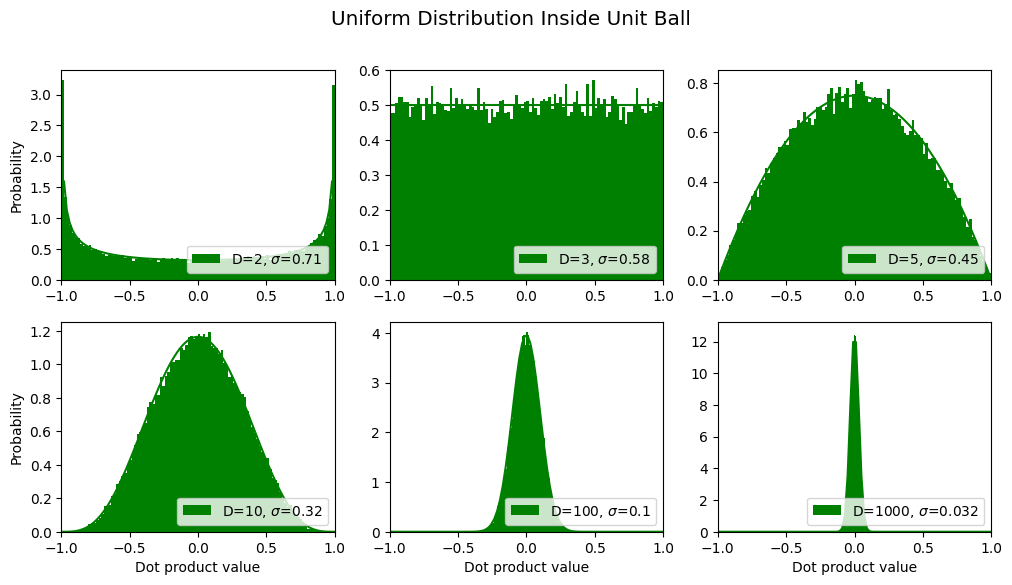
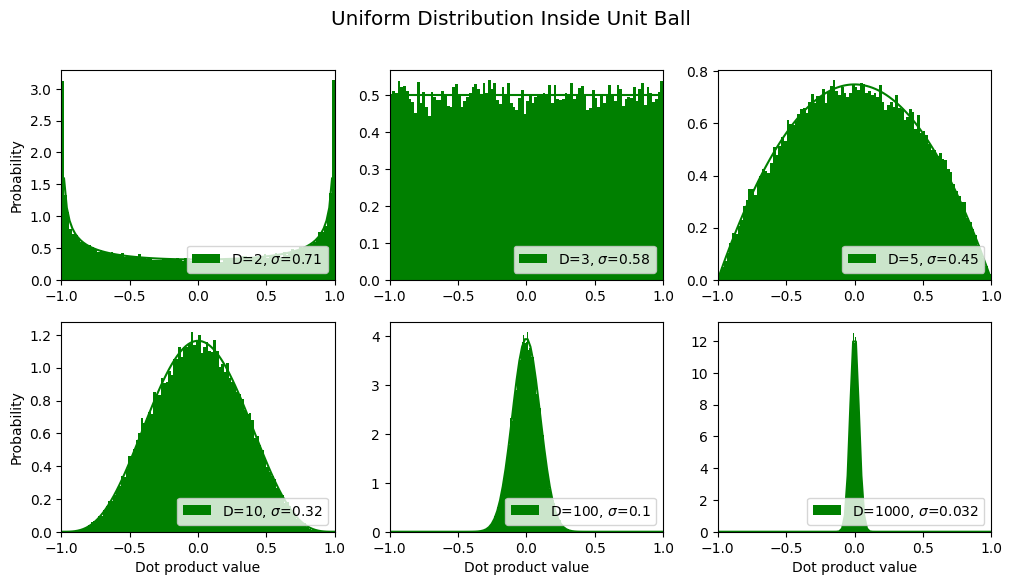
Built site for gh-pages

diff --git a/posts/2022-01-24-multidim-dotproducts.html b/posts/2022-01-24-multidim-dotproducts.html
@@ -321,48 +321,39 @@ window.Quarto = {
 <span id="cb3-10"><a href="#cb3-10" aria-hidden="true" tabindex="-1"></a>    <span class="co">"random number on [-1..1]"</span></span>
 <span id="cb3-11"><a href="#cb3-11" aria-hidden="true" tabindex="-1"></a>    <span class="cf">return</span> np.random.uniform(low<span class="op">=-</span><span class="fl">1.0</span>, high<span class="op">=</span><span class="fl">1.0</span>, size<span class="op">=</span>size)</span>
 <span id="cb3-12"><a href="#cb3-12" aria-hidden="true" tabindex="-1"></a></span>
-<span id="cb3-13"><a href="#cb3-13" aria-hidden="true" tabindex="-1"></a></span>
-<span id="cb3-14"><a href="#cb3-14" aria-hidden="true" tabindex="-1"></a><span class="kw">def</span> sample_ball(size<span class="op">=</span>(<span class="dv">1</span>, <span class="dv">1</span>)):</span>
-<span id="cb3-15"><a href="#cb3-15" aria-hidden="true" tabindex="-1"></a>    n, dim <span class="op">=</span> size</span>
-<span id="cb3-16"><a href="#cb3-16" aria-hidden="true" tabindex="-1"></a>    <span class="co">"sample random points inside an n-dimensional ball"</span></span>
-<span id="cb3-17"><a href="#cb3-17" aria-hidden="true" tabindex="-1"></a>    v <span class="op">=</span> np.random.normal(size<span class="op">=</span>(n, dim))</span>
-<span id="cb3-18"><a href="#cb3-18" aria-hidden="true" tabindex="-1"></a>    v <span class="op">/=</span> np.linalg.norm(v, axis<span class="op">=</span><span class="dv">1</span>, keepdims<span class="op">=</span><span class="va">True</span>)  <span class="co"># uniform direction</span></span>
-<span id="cb3-19"><a href="#cb3-19" aria-hidden="true" tabindex="-1"></a>    r <span class="op">=</span> np.random.uniform(size<span class="op">=</span>(n, <span class="dv">1</span>)) <span class="op">**</span> (<span class="dv">1</span><span class="op">/</span>dim)  <span class="co"># radius, ~u^(1/D)</span></span>
-<span id="cb3-20"><a href="#cb3-20" aria-hidden="true" tabindex="-1"></a>    <span class="cf">return</span> v <span class="op">*</span> r</span>
-<span id="cb3-21"><a href="#cb3-21" aria-hidden="true" tabindex="-1"></a></span>
-<span id="cb3-22"><a href="#cb3-22" aria-hidden="true" tabindex="-1"></a><span class="kw">def</span> softmax(x):</span>
-<span id="cb3-23"><a href="#cb3-23" aria-hidden="true" tabindex="-1"></a>    <span class="co">"good ol' softmax function, for a bunch of row vectors"</span></span>
-<span id="cb3-24"><a href="#cb3-24" aria-hidden="true" tabindex="-1"></a>    xT <span class="op">=</span> x.T  <span class="co"># .T's are just to make broadcasting work out.</span></span>
-<span id="cb3-25"><a href="#cb3-25" aria-hidden="true" tabindex="-1"></a>    vec_max <span class="op">=</span> np.<span class="bu">max</span>(xT,axis<span class="op">=</span><span class="dv">0</span>)</span>
-<span id="cb3-26"><a href="#cb3-26" aria-hidden="true" tabindex="-1"></a>    e_x <span class="op">=</span> np.exp(xT <span class="op">-</span> vec_max)   </span>
-<span id="cb3-27"><a href="#cb3-27" aria-hidden="true" tabindex="-1"></a>    <span class="cf">return</span> (e_x <span class="op">/</span> e_x.<span class="bu">sum</span>(axis<span class="op">=</span><span class="dv">0</span>)).T</span>
-<span id="cb3-28"><a href="#cb3-28" aria-hidden="true" tabindex="-1"></a></span>
-<span id="cb3-29"><a href="#cb3-29" aria-hidden="true" tabindex="-1"></a></span>
-<span id="cb3-30"><a href="#cb3-30" aria-hidden="true" tabindex="-1"></a><span class="kw">def</span> make_plot(n<span class="op">=</span>n, dims<span class="op">=</span>dims, title<span class="op">=</span><span class="st">''</span>, rand_func<span class="op">=</span>uniform_rand, normalize<span class="op">=</span><span class="va">False</span>,</span>
-<span id="cb3-31"><a href="#cb3-31" aria-hidden="true" tabindex="-1"></a>             color<span class="op">=</span><span class="st">'#1f77b4'</span>, xlim<span class="op">=</span><span class="va">None</span>, softmax_them<span class="op">=</span><span class="va">False</span>, scale_x_by_sqrtd<span class="op">=</span><span class="va">False</span>):</span>
-<span id="cb3-32"><a href="#cb3-32" aria-hidden="true" tabindex="-1"></a>    <span class="co">"""A function we'll call again &amp; again to make plots with"""</span></span>
-<span id="cb3-33"><a href="#cb3-33" aria-hidden="true" tabindex="-1"></a>    fig, axes <span class="op">=</span> plt.subplots(<span class="dv">2</span>,<span class="dv">3</span>, figsize<span class="op">=</span>(<span class="dv">12</span>,<span class="dv">6</span>))</span>
-<span id="cb3-34"><a href="#cb3-34" aria-hidden="true" tabindex="-1"></a>    fig.suptitle(title, fontsize<span class="op">=</span><span class="st">"x-large"</span>)</span>
-<span id="cb3-35"><a href="#cb3-35" aria-hidden="true" tabindex="-1"></a>    axes <span class="op">=</span> axes.ravel()</span>
-<span id="cb3-36"><a href="#cb3-36" aria-hidden="true" tabindex="-1"></a>    sds <span class="op">=</span> []                      <span class="co"># list of standard devations for different dims</span></span>
-<span id="cb3-37"><a href="#cb3-37" aria-hidden="true" tabindex="-1"></a>    <span class="cf">for</span> i,ax <span class="kw">in</span> <span class="bu">enumerate</span>(axes):</span>
-<span id="cb3-38"><a href="#cb3-38" aria-hidden="true" tabindex="-1"></a>        dim <span class="op">=</span> dims[i]</span>
-<span id="cb3-39"><a href="#cb3-39" aria-hidden="true" tabindex="-1"></a>        a <span class="op">=</span> rand_func(size<span class="op">=</span>(n,dim))</span>
-<span id="cb3-40"><a href="#cb3-40" aria-hidden="true" tabindex="-1"></a>        b <span class="op">=</span> rand_func(size<span class="op">=</span>(n,dim))</span>
-<span id="cb3-41"><a href="#cb3-41" aria-hidden="true" tabindex="-1"></a>        <span class="cf">if</span> softmax_them: a, b <span class="op">=</span> softmax(a), softmax(b)</span>
-<span id="cb3-42"><a href="#cb3-42" aria-hidden="true" tabindex="-1"></a>        <span class="cf">if</span> normalize: a, b <span class="op">=</span> norm_rows(a), norm_rows(b)</span>
-<span id="cb3-43"><a href="#cb3-43" aria-hidden="true" tabindex="-1"></a>        dots <span class="op">=</span> (a<span class="op">*</span>b).<span class="bu">sum</span>(axis<span class="op">=-</span><span class="dv">1</span>)</span>
-<span id="cb3-44"><a href="#cb3-44" aria-hidden="true" tabindex="-1"></a>        <span class="cf">if</span> scale_x_by_sqrtd: dots <span class="op">/=</span> np.sqrt(dim)</span>
-<span id="cb3-45"><a href="#cb3-45" aria-hidden="true" tabindex="-1"></a>        std <span class="op">=</span> np.std(dots,axis<span class="op">=</span><span class="dv">0</span>)   <span class="co"># measure standard dev of distribution of dot product</span></span>
-<span id="cb3-46"><a href="#cb3-46" aria-hidden="true" tabindex="-1"></a>        ax.hist(dots, density<span class="op">=</span><span class="va">True</span>, bins<span class="op">=</span><span class="dv">100</span>, label<span class="op">=</span><span class="ss">f'D=</span><span class="sc">{</span>dim<span class="sc">}</span><span class="ss">, $</span><span class="er">\</span><span class="ss">sigma$=</span><span class="sc">{</span>std<span class="sc">:3.2g}</span><span class="ss">'</span>, color<span class="op">=</span>color)  </span>
-<span id="cb3-47"><a href="#cb3-47" aria-hidden="true" tabindex="-1"></a>        sds.append(std)</span>
-<span id="cb3-48"><a href="#cb3-48" aria-hidden="true" tabindex="-1"></a>        <span class="cf">if</span> xlim<span class="op">!=</span><span class="va">None</span>: ax.set_xlim(xlim)</span>
-<span id="cb3-49"><a href="#cb3-49" aria-hidden="true" tabindex="-1"></a>        ax.legend(loc<span class="op">=</span><span class="dv">4</span>)   <span class="co"># legend will show dimensions and std dev</span></span>
-<span id="cb3-50"><a href="#cb3-50" aria-hidden="true" tabindex="-1"></a>        <span class="cf">if</span> i<span class="op">%</span><span class="dv">3</span><span class="op">==</span><span class="dv">0</span>: ax.set_ylabel(<span class="st">'Probability'</span>)</span>
-<span id="cb3-51"><a href="#cb3-51" aria-hidden="true" tabindex="-1"></a>        <span class="cf">if</span> i<span class="op">&gt;</span><span class="dv">2</span>: ax.set_xlabel(<span class="st">'Dot product value'</span>)</span>
-<span id="cb3-52"><a href="#cb3-52" aria-hidden="true" tabindex="-1"></a>    plt.rcParams[<span class="st">'figure.facecolor'</span>] <span class="op">=</span> <span class="st">'white'</span></span>
-<span id="cb3-53"><a href="#cb3-53" aria-hidden="true" tabindex="-1"></a>    plt.rcParams[<span class="st">'axes.facecolor'</span>] <span class="op">=</span> <span class="st">'white'</span></span>
-<span id="cb3-54"><a href="#cb3-54" aria-hidden="true" tabindex="-1"></a>    <span class="cf">return</span> sds, axes, fig   <span class="co"># return some axes &amp; figure info too in case we want to replot</span></span></code></pre></div><button title="Copy to Clipboard" class="code-copy-button"><i class="bi"></i></button></div>
+<span id="cb3-13"><a href="#cb3-13" aria-hidden="true" tabindex="-1"></a><span class="kw">def</span> softmax(x):</span>
+<span id="cb3-14"><a href="#cb3-14" aria-hidden="true" tabindex="-1"></a>    <span class="co">"good ol' softmax function, for a bunch of row vectors"</span></span>
+<span id="cb3-15"><a href="#cb3-15" aria-hidden="true" tabindex="-1"></a>    xT <span class="op">=</span> x.T  <span class="co"># .T's are just to make broadcasting work out.</span></span>
+<span id="cb3-16"><a href="#cb3-16" aria-hidden="true" tabindex="-1"></a>    vec_max <span class="op">=</span> np.<span class="bu">max</span>(xT,axis<span class="op">=</span><span class="dv">0</span>)</span>
+<span id="cb3-17"><a href="#cb3-17" aria-hidden="true" tabindex="-1"></a>    e_x <span class="op">=</span> np.exp(xT <span class="op">-</span> vec_max)   </span>
+<span id="cb3-18"><a href="#cb3-18" aria-hidden="true" tabindex="-1"></a>    <span class="cf">return</span> (e_x <span class="op">/</span> e_x.<span class="bu">sum</span>(axis<span class="op">=</span><span class="dv">0</span>)).T</span>
+<span id="cb3-19"><a href="#cb3-19" aria-hidden="true" tabindex="-1"></a></span>
+<span id="cb3-20"><a href="#cb3-20" aria-hidden="true" tabindex="-1"></a></span>
+<span id="cb3-21"><a href="#cb3-21" aria-hidden="true" tabindex="-1"></a><span class="kw">def</span> make_plot(n<span class="op">=</span>n, dims<span class="op">=</span>dims, title<span class="op">=</span><span class="st">''</span>, rand_func<span class="op">=</span>uniform_rand, normalize<span class="op">=</span><span class="va">False</span>,</span>
+<span id="cb3-22"><a href="#cb3-22" aria-hidden="true" tabindex="-1"></a>             color<span class="op">=</span><span class="st">'#1f77b4'</span>, xlim<span class="op">=</span><span class="va">None</span>, softmax_them<span class="op">=</span><span class="va">False</span>, scale_x_by_sqrtd<span class="op">=</span><span class="va">False</span>):</span>
+<span id="cb3-23"><a href="#cb3-23" aria-hidden="true" tabindex="-1"></a>    <span class="co">"""A function we'll call again &amp; again to make plots with"""</span></span>
+<span id="cb3-24"><a href="#cb3-24" aria-hidden="true" tabindex="-1"></a>    fig, axes <span class="op">=</span> plt.subplots(<span class="dv">2</span>,<span class="dv">3</span>, figsize<span class="op">=</span>(<span class="dv">12</span>,<span class="dv">6</span>))</span>
+<span id="cb3-25"><a href="#cb3-25" aria-hidden="true" tabindex="-1"></a>    fig.suptitle(title, fontsize<span class="op">=</span><span class="st">"x-large"</span>)</span>
+<span id="cb3-26"><a href="#cb3-26" aria-hidden="true" tabindex="-1"></a>    axes <span class="op">=</span> axes.ravel()</span>
+<span id="cb3-27"><a href="#cb3-27" aria-hidden="true" tabindex="-1"></a>    sds <span class="op">=</span> []                      <span class="co"># list of standard devations for different dims</span></span>
+<span id="cb3-28"><a href="#cb3-28" aria-hidden="true" tabindex="-1"></a>    <span class="cf">for</span> i,ax <span class="kw">in</span> <span class="bu">enumerate</span>(axes):</span>
+<span id="cb3-29"><a href="#cb3-29" aria-hidden="true" tabindex="-1"></a>        dim <span class="op">=</span> dims[i]</span>
+<span id="cb3-30"><a href="#cb3-30" aria-hidden="true" tabindex="-1"></a>        a <span class="op">=</span> rand_func(size<span class="op">=</span>(n,dim))</span>
+<span id="cb3-31"><a href="#cb3-31" aria-hidden="true" tabindex="-1"></a>        b <span class="op">=</span> rand_func(size<span class="op">=</span>(n,dim))</span>
+<span id="cb3-32"><a href="#cb3-32" aria-hidden="true" tabindex="-1"></a>        <span class="cf">if</span> softmax_them: a, b <span class="op">=</span> softmax(a), softmax(b)</span>
+<span id="cb3-33"><a href="#cb3-33" aria-hidden="true" tabindex="-1"></a>        <span class="cf">if</span> normalize: a, b <span class="op">=</span> norm_rows(a), norm_rows(b)</span>
+<span id="cb3-34"><a href="#cb3-34" aria-hidden="true" tabindex="-1"></a>        dots <span class="op">=</span> (a<span class="op">*</span>b).<span class="bu">sum</span>(axis<span class="op">=-</span><span class="dv">1</span>)</span>
+<span id="cb3-35"><a href="#cb3-35" aria-hidden="true" tabindex="-1"></a>        <span class="cf">if</span> scale_x_by_sqrtd: dots <span class="op">/=</span> np.sqrt(dim)</span>
+<span id="cb3-36"><a href="#cb3-36" aria-hidden="true" tabindex="-1"></a>        std <span class="op">=</span> np.std(dots,axis<span class="op">=</span><span class="dv">0</span>)   <span class="co"># measure standard dev of distribution of dot product</span></span>
+<span id="cb3-37"><a href="#cb3-37" aria-hidden="true" tabindex="-1"></a>        ax.hist(dots, density<span class="op">=</span><span class="va">True</span>, bins<span class="op">=</span><span class="dv">100</span>, label<span class="op">=</span><span class="ss">f'D=</span><span class="sc">{</span>dim<span class="sc">}</span><span class="ss">, $</span><span class="er">\</span><span class="ss">sigma$=</span><span class="sc">{</span>std<span class="sc">:3.2g}</span><span class="ss">'</span>, color<span class="op">=</span>color)  </span>
+<span id="cb3-38"><a href="#cb3-38" aria-hidden="true" tabindex="-1"></a>        sds.append(std)</span>
+<span id="cb3-39"><a href="#cb3-39" aria-hidden="true" tabindex="-1"></a>        <span class="cf">if</span> xlim<span class="op">!=</span><span class="va">None</span>: ax.set_xlim(xlim)</span>
+<span id="cb3-40"><a href="#cb3-40" aria-hidden="true" tabindex="-1"></a>        ax.legend(loc<span class="op">=</span><span class="dv">4</span>)   <span class="co"># legend will show dimensions and std dev</span></span>
+<span id="cb3-41"><a href="#cb3-41" aria-hidden="true" tabindex="-1"></a>        <span class="cf">if</span> i<span class="op">%</span><span class="dv">3</span><span class="op">==</span><span class="dv">0</span>: ax.set_ylabel(<span class="st">'Probability'</span>)</span>
+<span id="cb3-42"><a href="#cb3-42" aria-hidden="true" tabindex="-1"></a>        <span class="cf">if</span> i<span class="op">&gt;</span><span class="dv">2</span>: ax.set_xlabel(<span class="st">'Dot product value'</span>)</span>
+<span id="cb3-43"><a href="#cb3-43" aria-hidden="true" tabindex="-1"></a>    plt.rcParams[<span class="st">'figure.facecolor'</span>] <span class="op">=</span> <span class="st">'white'</span></span>
+<span id="cb3-44"><a href="#cb3-44" aria-hidden="true" tabindex="-1"></a>    plt.rcParams[<span class="st">'axes.facecolor'</span>] <span class="op">=</span> <span class="st">'white'</span></span>
+<span id="cb3-45"><a href="#cb3-45" aria-hidden="true" tabindex="-1"></a>    <span class="cf">return</span> sds, axes, fig   <span class="co"># return some axes &amp; figure info too in case we want to replot</span></span></code></pre></div><button title="Copy to Clipboard" class="code-copy-button"><i class="bi"></i></button></div>
 </details>
 </div>
 <p>Now we can get started by looking at distributions of dot products for various kinds of vectors. Starting with…</p>
@@ -488,11 +479,19 @@ window.Quarto = {
 <h2 class="anchored" data-anchor-id="uniform-distriubtion-of-vectors-inside-a-unit-ball">Uniform distriubtion of Vectors Inside a Unit Ball</h2>
 <p>So we’ve done vectors inside a unit cube, and vectors on the unit sphere. What about <em>inside</em> a unit ball?</p>
 <div id="5fe75999-b543-4002-a14f-060e779d8f73" class="cell">
-<div class="code-copy-outer-scaffold"><div class="sourceCode cell-code" id="cb10"><pre class="sourceCode python code-with-copy"><code class="sourceCode python"><span id="cb10-1"><a href="#cb10-1" aria-hidden="true" tabindex="-1"></a>title <span class="op">=</span> <span class="st">"Uniform Distribution Inside Unit Ball"</span></span>
-<span id="cb10-2"><a href="#cb10-2" aria-hidden="true" tabindex="-1"></a>sds, axes, fig <span class="op">=</span> make_plot(title<span class="op">=</span>title, rand_func<span class="op">=</span>sample_ball,</span>
-<span id="cb10-3"><a href="#cb10-3" aria-hidden="true" tabindex="-1"></a>                           normalize<span class="op">=</span><span class="va">True</span>, color<span class="op">=</span><span class="st">'green'</span>, xlim<span class="op">=</span>[<span class="op">-</span><span class="dv">1</span>,<span class="dv">1</span>])</span>
-<span id="cb10-4"><a href="#cb10-4" aria-hidden="true" tabindex="-1"></a>results.append({<span class="st">'label'</span>: title, <span class="st">'sds'</span>: sds })  <span class="co"># save for later</span></span>
-<span id="cb10-5"><a href="#cb10-5" aria-hidden="true" tabindex="-1"></a>fit_beta(axes)</span></code></pre></div><button title="Copy to Clipboard" class="code-copy-button"><i class="bi"></i></button></div>
+<div class="code-copy-outer-scaffold"><div class="sourceCode cell-code" id="cb10"><pre class="sourceCode python code-with-copy"><code class="sourceCode python"><span id="cb10-1"><a href="#cb10-1" aria-hidden="true" tabindex="-1"></a><span class="kw">def</span> sample_ball(size<span class="op">=</span>(<span class="dv">1</span>, <span class="dv">1</span>)):</span>
+<span id="cb10-2"><a href="#cb10-2" aria-hidden="true" tabindex="-1"></a>    <span class="co">"sample random points inside an n-dimensional ball"</span></span>
+<span id="cb10-3"><a href="#cb10-3" aria-hidden="true" tabindex="-1"></a>    n, dim <span class="op">=</span> size</span>
+<span id="cb10-4"><a href="#cb10-4" aria-hidden="true" tabindex="-1"></a>    v <span class="op">=</span> np.random.normal(size<span class="op">=</span>size)</span>
+<span id="cb10-5"><a href="#cb10-5" aria-hidden="true" tabindex="-1"></a>    v <span class="op">/=</span> np.linalg.norm(v, axis<span class="op">=</span><span class="dv">1</span>, keepdims<span class="op">=</span><span class="va">True</span>)  <span class="co"># uniform direction</span></span>
+<span id="cb10-6"><a href="#cb10-6" aria-hidden="true" tabindex="-1"></a>    r <span class="op">=</span> np.random.uniform(size<span class="op">=</span>(n, <span class="dv">1</span>)) <span class="op">**</span> (<span class="dv">1</span><span class="op">/</span>dim)  <span class="co"># radius, ~u^(1/D)</span></span>
+<span id="cb10-7"><a href="#cb10-7" aria-hidden="true" tabindex="-1"></a>    <span class="cf">return</span> v <span class="op">*</span> r</span>
+<span id="cb10-8"><a href="#cb10-8" aria-hidden="true" tabindex="-1"></a></span>
+<span id="cb10-9"><a href="#cb10-9" aria-hidden="true" tabindex="-1"></a>title <span class="op">=</span> <span class="st">"Uniform Distribution Inside Unit Ball"</span></span>
+<span id="cb10-10"><a href="#cb10-10" aria-hidden="true" tabindex="-1"></a>sds, axes, fig <span class="op">=</span> make_plot(title<span class="op">=</span>title, rand_func<span class="op">=</span>sample_ball,</span>
+<span id="cb10-11"><a href="#cb10-11" aria-hidden="true" tabindex="-1"></a>                           normalize<span class="op">=</span><span class="va">True</span>, color<span class="op">=</span><span class="st">'green'</span>, xlim<span class="op">=</span>[<span class="op">-</span><span class="dv">1</span>,<span class="dv">1</span>])</span>
+<span id="cb10-12"><a href="#cb10-12" aria-hidden="true" tabindex="-1"></a>results.append({<span class="st">'label'</span>: title, <span class="st">'sds'</span>: sds })  <span class="co"># save for later</span></span>
+<span id="cb10-13"><a href="#cb10-13" aria-hidden="true" tabindex="-1"></a>fit_beta(axes)</span></code></pre></div><button title="Copy to Clipboard" class="code-copy-button"><i class="bi"></i></button></div>
 <div class="cell-output cell-output-display">
 <div>
 <figure class="figure">

diff --git a/index.html b/index.html
@@ -599,7 +599,7 @@ Scott H. Hawley
 </a>
 </div>
 </div>
-<div class="quarto-post image-right" data-index="9" data-categories="c3NsJTJDbWF0aCUyQ2dlb21ldHJ5JTJDZW1iZWRkaW5ncw==" data-listing-date-sort="1643004000000" data-listing-file-modified-sort="1780925220317" data-listing-date-modified-sort="NaN" data-listing-reading-time-sort="6" data-listing-word-count-sort="1097">
+<div class="quarto-post image-right" data-index="9" data-categories="c3NsJTJDbWF0aCUyQ2dlb21ldHJ5JTJDZW1iZWRkaW5ncw==" data-listing-date-sort="1643004000000" data-listing-file-modified-sort="1780925377111" data-listing-date-modified-sort="NaN" data-listing-reading-time-sort="6" data-listing-word-count-sort="1097">
 <div class="thumbnail"><a href="./posts/2022-01-24-multidim-dotproducts.html" class="no-external">
 
 <img loading="lazy" src="./posts/images/multidim_dp_summary.png" class="thumbnail-image">
